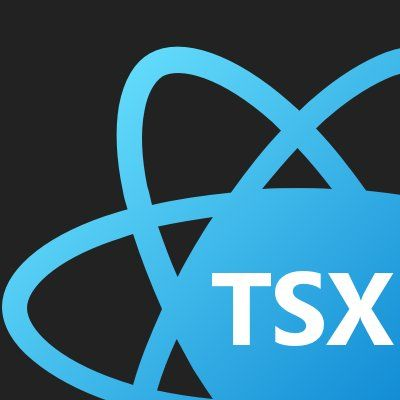
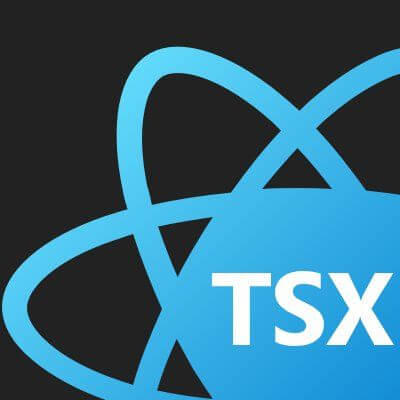
minified and removed higher size images

Changed region(s): [[0.36, 0.21, 0.39, 0.24]]

diff --git a/src/pages/sign-in/sign-in.styles.ts b/src/pages/sign-in/sign-in.styles.ts
@@ -1,13 +1,16 @@
 import styled from "styled-components";
-import image1 from "../../assets/images/nli/user-nli-image-1.jpg";
-import image2 from "../../assets/images/nli/user-nli-image-2.jpg";
-import image3 from "../../assets/images/nli/user-nli-image-3.jpg";
-import image4 from "../../assets/images/nli/user-nli-image-4.jpg";
+import image1 from "../../assets/images/nli/light.jpg";
+import image2 from "../../assets/images/nli/silloute-fishing-boat.jpg";
+import image3 from "../../assets/images/nli/street-light.jpg";
+import image4 from "../../assets/images/nli/window.jpg";
+import image5 from "../../assets/images/nli/mountain.jpg";
 
 import signInUserImage from "../../assets/images/nli/sign-in-user-image.svg";
 import signUpUserImage from "../../assets/images/nli/sign-up-user-image.svg";
+import Rocket from "../../assets/images/nli/rocket.svg";
+import Launch from "../../assets/images/nli/launch.svg";
 
-export const images = [image1, image2, image3, image4];
+export const images = [image1, image2, image3, image4, image5];
 
 interface Props {
 	image: string;
@@ -18,8 +21,9 @@ interface randomImageProp {
 }
 
 export const Wrapper = styled.div<randomImageProp>`
-	background-image: url(${(props) =>
-		props.randomImage ? images[props.randomImage] : images[0]});
+	background: url(${(props) =>
+			props.randomImage ? images[props.randomImage] : images[0]}),
+		#00000080;
 	width: 100vw;
 	height: 100vh;
 	background-size: cover;
@@ -55,9 +59,9 @@ export const SignInContainer = styled.div`
 
 export const SignInUserImage = styled.div<Props>`
 	background-image: url(${(props) =>
-		props.image === "userSignIn" ? signInUserImage : signUpUserImage});
-	width: 406px;
-	height: 306px;
+		props.image === "userSignIn" ? Rocket : Launch});
+	width: 350px;
+	aspect-ratio: 1;
 	background-repeat: no-repeat;
 `;
 
